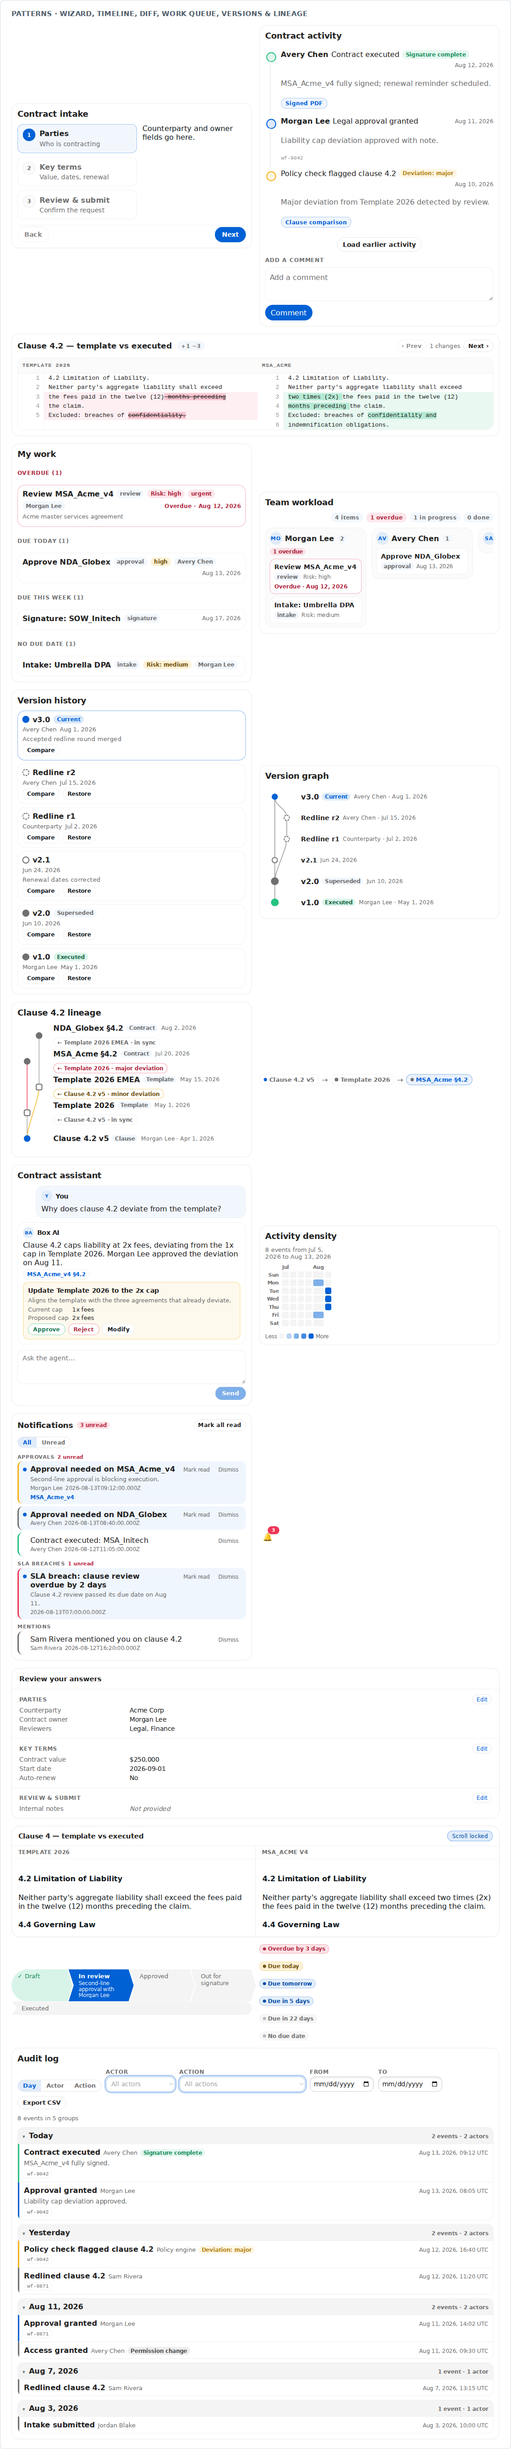
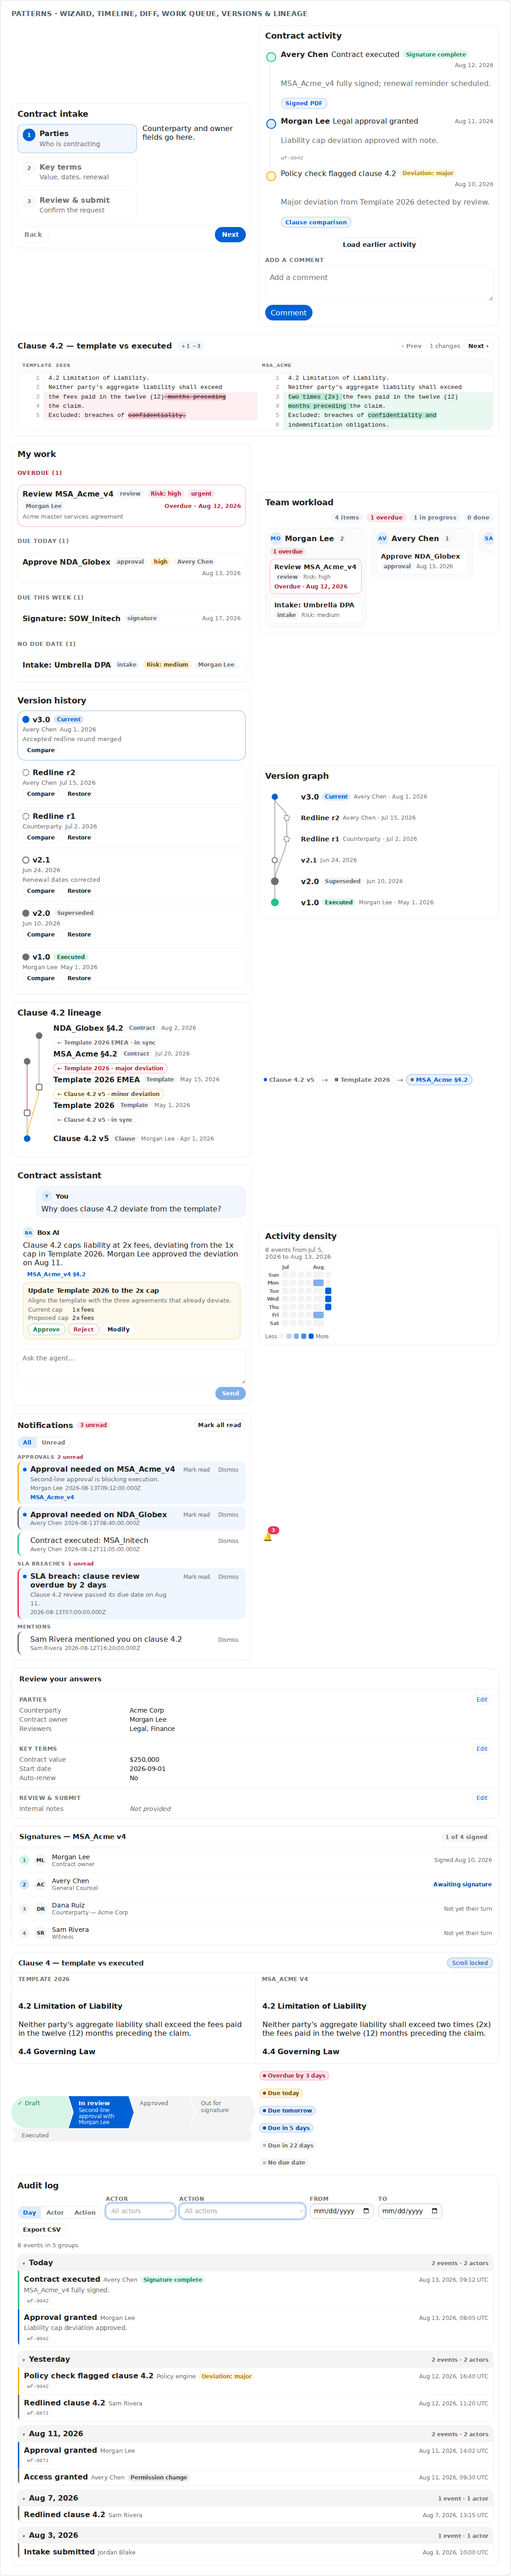
docs(site): docs-site + workshop + gallery page for the signature ceremony (#186)
* docs(site): docs-site + workshop + gallery page for the signature ceremony [regen-baselines]

Registry entry under a new Signature category, live example, a Storybook
story (138 extracted workshop stories, up from 137), a gallery row, and one
docs-site shot route for `box-signature-ceremony` (#185).

Three variants, and the third is the point: sequential mid-ceremony,
parallel, and **declined**. A docs page that only showed the happy path
would leave the rule the component exists to enforce invisible — that a
refusal stops the ceremony and the party behind it is not invited to sign a
document that is already dead.

**Building the declined variant found a wording bug.** With the decline
rendered, the witness behind it read "Not yet their turn" — which implies
the document is still moving toward them. It is not; their turn is not
coming. The *state* was right (`waiting`, never `awaiting`, so no sign-now
affordance) but the words contradicted it. A stopped ceremony now says
"Ceremony stopped".

That is the same class of problem the component is about: not misleading
someone about whether they can act. Worth the fix even though the machinery
underneath was already correct.

Smoke-tested both variants headless against the docs server. Sequential
reads 1 of 4 signed with Morgan signed, Avery awaiting, and both remaining
parties waiting. Declined reads Declined with Morgan and Avery signed, Dana
declined with her reason shown, and Sam — behind the decline — waiting
[…]

diff --git a/storybook/stories/signature-ceremony.stories.ts b/storybook/stories/signature-ceremony.stories.ts
@@ -1,0 +1,38 @@
+import type { StoryModule } from "../metadata.js";
+
+const signatureCeremony: StoryModule = {
+  title: "Patterns/Signature/Signature Ceremony",
+  meta: {
+    id: "signature-ceremony",
+    tag: "box-signature-ceremony",
+    shortDescription: "Party-oriented signing progress: who signs, in what order, who can act now.",
+    docsDescription:
+      "The signature surface for a contract out for signing. `resolveCeremony` is pure and DOM-free, so the rules that decide who may sign are testable on their own and a host can drive its own surface — or its reminder emails — from the same function, rather than reimplementing the ordering and drifting from what the card shows. Three rules apply in priority order. **A decline stops the ceremony**: nobody who has not already signed is shown as able to act, not even in parallel mode where they otherwise all could. That is the rule worth being strict about — a declined document is dead until the host revives it, and inviting someone to sign against it wastes their time and can produce a signature on a document the counterparty has already refused. **Sequential grants exactly one turn**, to the first unsigned party, so a later party can never appear actionable before an earlier one has signed. **Parallel grants every turn at once.** The state model carries the distinction: `awaiting` means can act now, `waiting` means their turn has not come — or the ceremony has stopped and will never reach them — and only `awaiting` should ever carry a sign-now affordance. The card is read-only by design, because signing happens in the signature provider's own flow and a button here would have to duplicate that flow's authority; every state is rendered in words as well as colour.",
+    sourceSnippet: `<box-signature-ceremony heading="Signatures"></box-signature-ceremony>`,
+    referenceRows: [
+      { kind: "attribute", name: "signatories", type: "json", description: "Signatory records: `id`, `name`, optional `role`, `signedAt`, `declinedAt`, `declineReason`." },
+      { kind: "attribute", name: "mode", type: "string", description: "'sequential' (default) routes one party at a time; 'parallel' sends to everyone at once." },
+      { kind: "attribute", name: "heading", type: "string", description: "Card title and its accessible name. Defaults to 'Signatures'." },
+      { kind: "property", name: "resolution", type: "CeremonyResolution", description: "Read-only: statuses, ceremony status, signed count, and the parties who may act now." },
+    ],
+  },
+  variants: [
+    {
+      name: "Sequential, mid-ceremony",
+      html: `<box-signature-ceremony heading="Signatures — MSA_Acme v4"></box-signature-ceremony>`,
+      note: "Exactly one party is awaiting; those behind read 'Not yet their turn' rather than looking actionable.",
+    },
+    {
+      name: "Parallel",
+      html: `<box-signature-ceremony heading="Signatures — MSA_Acme v4" mode="parallel"></box-signature-ceremony>`,
+      note: "The same roster sent to everyone at once: every unsigned party is awaiting.",
+    },
+    {
+      name: "Declined",
+      html: `<box-signature-ceremony heading="Signatures — MSA_Acme v4"></box-signature-ceremony>`,
+      note: "A refusal stops the ceremony: the party behind the decline is not invited to sign a document that is already dead.",
+    },
+  ],
+};
+
+export default signatureCeremony;

diff --git a/docs-site/examples.ts b/docs-site/examples.ts
@@ -37,6 +37,8 @@ import {
   clmIntakeValues,
   clmLineage,
   clmProvenanceChain,
+  clmSignatories,
+  clmDeclinedSignatories,
   clmStages,
   clmTeam,
   clmTimelineEvents,
@@ -1011,6 +1013,39 @@ export const examples: Record<string, ComponentExample> = {
       set(root, "box-provenance-strip", { nodes: clmProvenanceChain });
     },
     note: "The high-frequency lineage sibling for record headers: linear ancestry oldest → newest, newest marked current, `node-selected` on activation.",
+  },
+  "signature-ceremony": {
+    html: `<box-signature-ceremony heading="Signatures — MSA_Acme v4"></box-signature-ceremony>`,
+    setup: root => {
+      set(root, "box-signature-ceremony", { signatories: clmSignatories });
+    },
+    note: "Sequential by default: **exactly one** party is awaiting signature, and everyone behind them reads *Not yet their turn* rather than looking actionable. Switch `mode` to `parallel` and every unsigned party opens at once. Every state is stated in words as well as colour, and `resolveCeremony` is pure — a host can drive its reminder emails from the same function that renders this card, so the two cannot disagree about whose turn it is.",
+    variants: [
+      {
+        name: "Sequential, mid-ceremony",
+        html: `<box-signature-ceremony heading="Signatures — MSA_Acme v4"></box-signature-ceremony>`,
+        setup: root => {
+          set(root, "box-signature-ceremony", { signatories: clmSignatories });
+        },
+        note: "One signed, one awaiting, two waiting. The counterparty cannot be invited before General Counsel has signed.",
+      },
+      {
+        name: "Parallel",
+        html: `<box-signature-ceremony heading="Signatures — MSA_Acme v4" mode="parallel"></box-signature-ceremony>`,
+        setup: root => {
+          set(root, "box-signature-ceremony", { signatories: clmSignatories });
+        },
+        note: "The same roster sent to everyone at once: all three unsigned parties are awaiting.",
+      },
+      {
+        name: "Declined",
+        html: `<box-signature-ceremony heading="Signatures — MSA_Acme v4"></box-signature-ceremony>`,
+        setup: root => {
+          set(root, "box-signature-ceremony", { signatories: clmDeclinedSignatories });
+        },
+        note: "The rule the component exists for. The counterparty refused, so the **witness behind them is not invited to sign** — a declined document is dead until the host revives it, and a signature collected against it would be worse than useless. Note this holds in parallel mode too, where everyone otherwise could act.",
+      },
+    ],
   },
   "agent-chat": {
     html: `<box-agent-chat

diff --git a/docs-site/clm-demo-data.ts b/docs-site/clm-demo-data.ts
@@ -11,6 +11,7 @@ import type {
 import type { AuditEvent } from "../src/patterns/audit/types.js";
 import type { CommandDescriptor } from "../src/components/overlays/command-types.js";
 import type { StagePathStage } from "../src/components/feedback/stage-path.js";
+import type { Signatory } from "../src/patterns/signature/types.js";
 import type { NotificationItem } from "../src/patterns/notifications/types.js";
 import type { LineageNode } from "../src/patterns/lineage/types.js";
 import type { TimelineEvent } from "../src/patterns/timeline/types.js";
@@ -461,6 +462,34 @@ export const clmIntakeSummaryFields: WizardSummaryField[] = [
   { key: "reviewers", label: "Reviewers", stepId: "parties" },
   { key: "notes", label: "Internal notes", stepId: "review" },
 ];
+
+/**
+ * The signing roster for the same contract the other demos use — mid-ceremony,
+ * with one party signed and the rest waiting their turn.
+ */
+export const clmSignatories: Signatory[] = [
+  { id: "morgan", name: "Morgan Lee", role: "Contract owner", signedAt: "2026-08-10T09:20:00.000Z" },
+  { id: "avery", name: "Avery Chen", role: "General Counsel" },
+  { id: "dana", name: "Dana Ruiz", role: "Counterparty — Acme Corp" },
+  { id: "sam", name: "Sam Rivera", role: "Witness" },
+];
+
+/**
+ * The same roster after the counterparty refuses. Worth showing on the page
+ * because it is the rule the component exists to enforce: the witness behind
+ * the decline must not be invited to sign a document that is already dead.
+ */
+export const clmDeclinedSignatories: Signatory[] = clmSignatories.map(party =>
+  party.id === "avery"
+    ? { ...party, signedAt: "2026-08-11T08:05:00.000Z" }
+    : party.id === "dana"
+      ? {
+          ...party,
+          declinedAt: "2026-08-12T14:30:00.000Z",
+          declineReason: "Liability cap at 2x is not acceptable; returning redline.",
+        }
+      : party,
+);
 
 /** The lifecycle a contract record moves through, for `box-stage-path`. */
 export const clmStages: StagePathStage[] = [

diff --git a/tools/preview/gallery.html b/tools/preview/gallery.html
@@ -274,6 +274,11 @@
   </div>
   <div class="row">
     <div class="col">
+      <box-signature-ceremony id="gallery-signature-ceremony" heading="Signatures — MSA_Acme v4"></box-signature-ceremony>
+    </div>
+  </div>
+  <div class="row">
+    <div class="col">
       <box-compare-view heading="Clause 4 — template vs executed" left-label="Template 2026" right-label="MSA_Acme v4" style="block-size: 15rem">
         <div slot="left">
           <h4>4.2 Limitation of Liability</h4>
@@ -750,6 +755,13 @@
     { id: "terms", label: "Key terms", description: "Value, dates, renewal" },
     { id: "review", label: "Review & submit", description: "Confirm the request" },
   ];
+  byId("gallery-signature-ceremony").signatories = [
+    { id: "morgan", name: "Morgan Lee", role: "Contract owner", signedAt: "2026-08-10T09:20:00.000Z" },
+    { id: "avery", name: "Avery Chen", role: "General Counsel" },
+    { id: "dana", name: "Dana Ruiz", role: "Counterparty — Acme Corp" },
+    { id: "sam", name: "Sam Rivera", role: "Witness" },
+  ];
+
   byId("gallery-wizard-summary").steps = clmIntakeSteps;
   byId("gallery-wizard-summary").fields = [
     { key: "contractValue", label: "Contract value", stepId: "terms", format: v => (typeof v === "number" ? `$${v.toLocaleString("en-US")}` : "") },

diff --git a/src/patterns/signature/signature-ceremony.ts b/src/patterns/signature/signature-ceremony.ts
@@ -297,12 +297,18 @@ export class SignatureCeremony extends BaseElement {
         // rendering "Signed " with nothing after it.
         const signedDay = signatory.signedAt ? signedOnDay(signatory.signedAt) : "";
         const declinedDay = signatory.declinedAt ? signedOnDay(signatory.declinedAt) : "";
+        // "Not yet their turn" would be a lie once someone has refused: their
+        // turn is not coming. A stopped ceremony says so.
+        const waitingLabel =
+          resolution.status === "declined" ? "Ceremony stopped" : STATE_LABEL.waiting!;
         const detail =
           state === "signed" && signedDay
             ? `Signed ${signedDay}`
             : state === "declined" && declinedDay
               ? `Declined ${declinedDay}`
-              : STATE_LABEL[state]!;
+              : state === "waiting"
+                ? waitingLabel
+                : STATE_LABEL[state]!;
         const reason =
           state === "declined" && signatory.declineReason
             ? `<span part="reason">${escapeHtml(signatory.declineReason)}</span>`

diff --git a/test/patterns/signature/signature-ceremony.test.ts b/test/patterns/signature/signature-ceremony.test.ts
@@ -214,6 +214,19 @@ describe("box-signature-ceremony", () => {
     expect(element.resolution.awaiting).toEqual([]);
   });
 
+  it("says the ceremony stopped rather than 'not yet their turn' after a decline", async () => {
+    const element = await mount(el => {
+      el.signatories = parties.map(party =>
+        party.id === "avery" ? { ...party, declinedAt: "2026-08-11T09:00:00.000Z" } : party,
+      );
+    });
+
+    // Their turn is not coming, so saying it has not arrived yet would mislead.
+    const details = all(element, '[part="state"]').map(n => n.textContent?.trim());
+    expect(details[2]).toBe("Ceremony stopped");
+    expect(details).not.toContain("Not yet their turn");
+  });
+
   it("opens every turn in parallel mode", async () => {
     const element = await mount(el => (el.mode = "parallel"));
 

diff --git a/storybook/registry.ts b/storybook/registry.ts
@@ -38,6 +38,7 @@ import commandPalette from "./stories/command-palette.stories.js";
 import shortcutsOverlay from "./stories/shortcuts-overlay.stories.js";
 import wizardSummary from "./stories/wizard-summary.stories.js";
 import compareView from "./stories/compare-view.stories.js";
+import signatureCeremony from "./stories/signature-ceremony.stories.js";
 import stagePath from "./stories/stage-path.stories.js";
 import dueBadge from "./stories/due-badge.stories.js";
 import notificationBell from "./stories/notification-bell.stories.js";
@@ -183,6 +184,7 @@ export const storyModules: StoryModule[] = [
   shortcutsOverlay,
   wizardSummary,
   compareView,
+  signatureCeremony,
   stagePath,
   dueBadge,
   notificationBell,

diff --git a/docs-site/registry.ts b/docs-site/registry.ts
@@ -49,6 +49,7 @@ export const catalog: CatalogEntry[] = [
   { id: "version-graph", tier: "patterns", category: "Versions", tag: "box-version-graph" },
   { id: "lineage-graph", tier: "patterns", category: "Lineage", tag: "box-lineage-graph" },
   { id: "provenance-strip", tier: "patterns", category: "Lineage", tag: "box-provenance-strip" },
+  { id: "signature-ceremony", tier: "patterns", category: "Signature", tag: "box-signature-ceremony" },
   { id: "agent-chat", tier: "patterns", category: "Agent Chat", tag: "box-agent-chat" },
   { id: "audit-log", tier: "patterns", category: "Audit", tag: "box-audit-log" },
   { id: "activity-density", tier: "patterns", category: "Audit", tag: "box-activity-density" },

diff --git a/tools/preview/docs-site-shots.ts b/tools/preview/docs-site-shots.ts
@@ -72,6 +72,7 @@ const routes: Array<[name: string, hash: string, readyMarker: string, scrollTo?:
   ["patterns-version-graph", "#patterns/version-graph", "patterns/version-graph"],
   ["patterns-lineage-graph", "#patterns/lineage-graph", "patterns/lineage-graph"],
   ["patterns-provenance-strip", "#patterns/provenance-strip", "patterns/provenance-strip"],
+  ["patterns-signature-ceremony", "#patterns/signature-ceremony", "patterns/signature-ceremony"],
   ["patterns-agent-chat", "#patterns/agent-chat", "patterns/agent-chat"],
   ["patterns-audit-log", "#patterns/audit-log", "patterns/audit-log"],
   ["patterns-activity-density", "#patterns/activity-density", "patterns/activity-density"],

diff --git a/CHANGELOG.md b/CHANGELOG.md
@@ -10,6 +10,18 @@ Generated from git: `git log main --since="2026-07-14" --until="2026-07-18"`.
 
 ## Unreleased
 
+- Docs-site, workshop, and gallery coverage for `box-signature-ceremony`
+  (138 extracted workshop stories), under a new Signature category. Three
+  variants — sequential mid-ceremony, parallel, and **declined** — because
+  the declined case is the rule the component exists to enforce, and a docs
+  page that only showed the happy path would leave it invisible.
+
+- Fixed `box-signature-ceremony` telling a party their turn had not come yet
+  when the ceremony had actually stopped. After a decline, everyone behind it
+  read "Not yet their turn", which implies the document is still moving
+  toward them; it now reads "Ceremony stopped". Building the declined variant
+  is what surfaced it — the state was right, the wording was not.
+
 - Signature ceremony status: `box-signature-ceremony`, party-oriented signing
   progress — who signs, in what order, and who can act right now.
 
